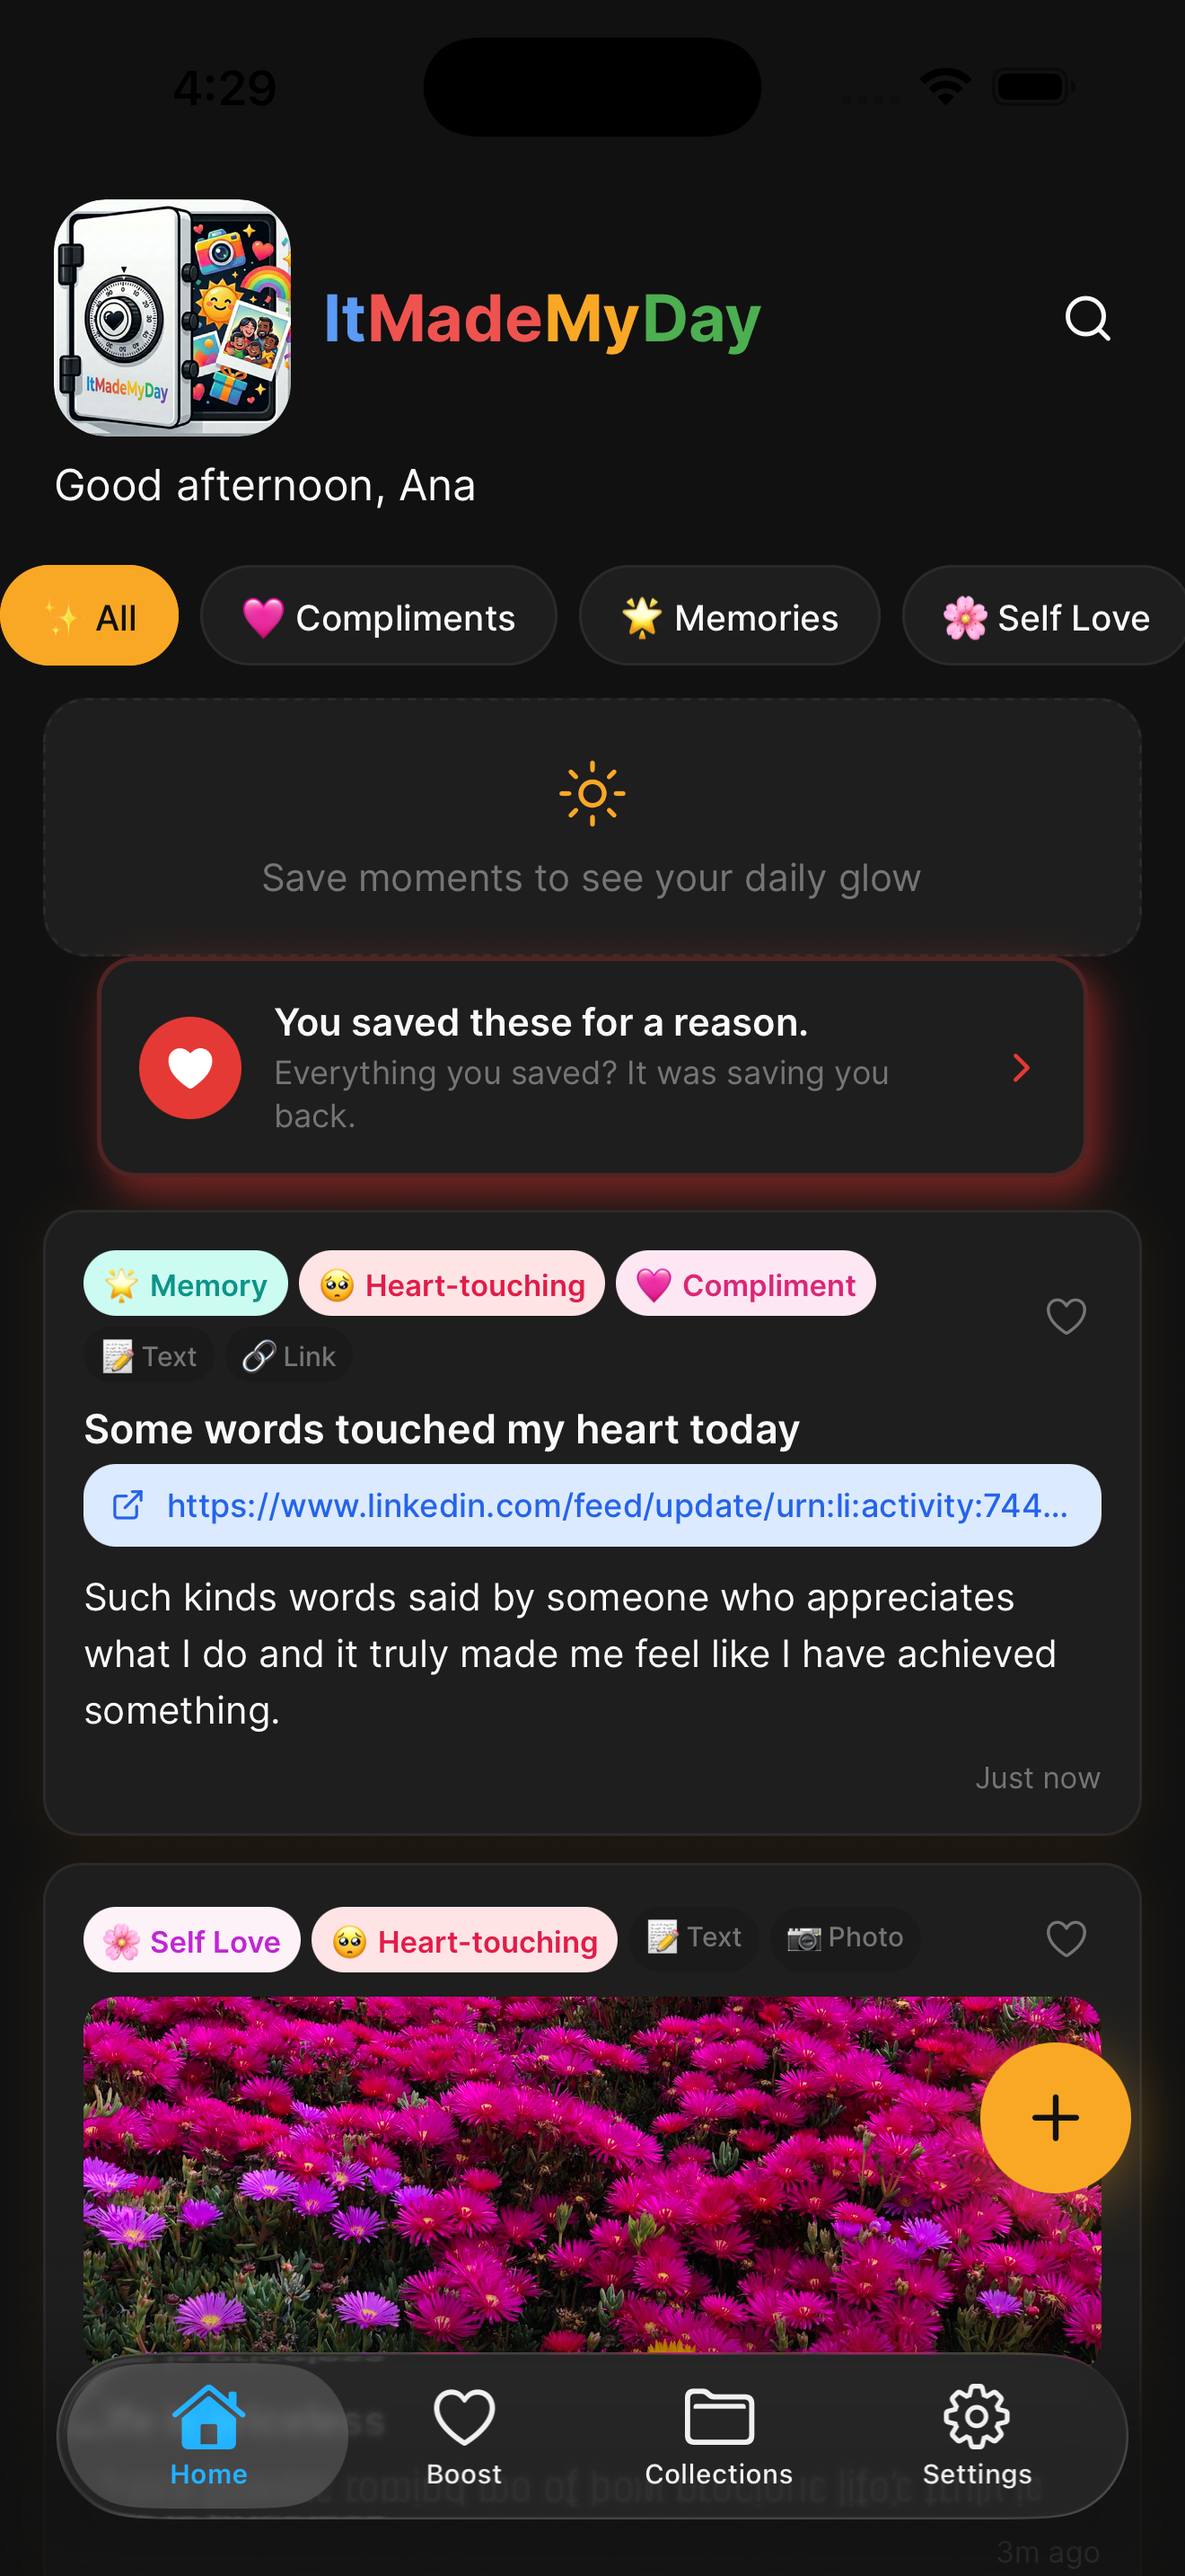
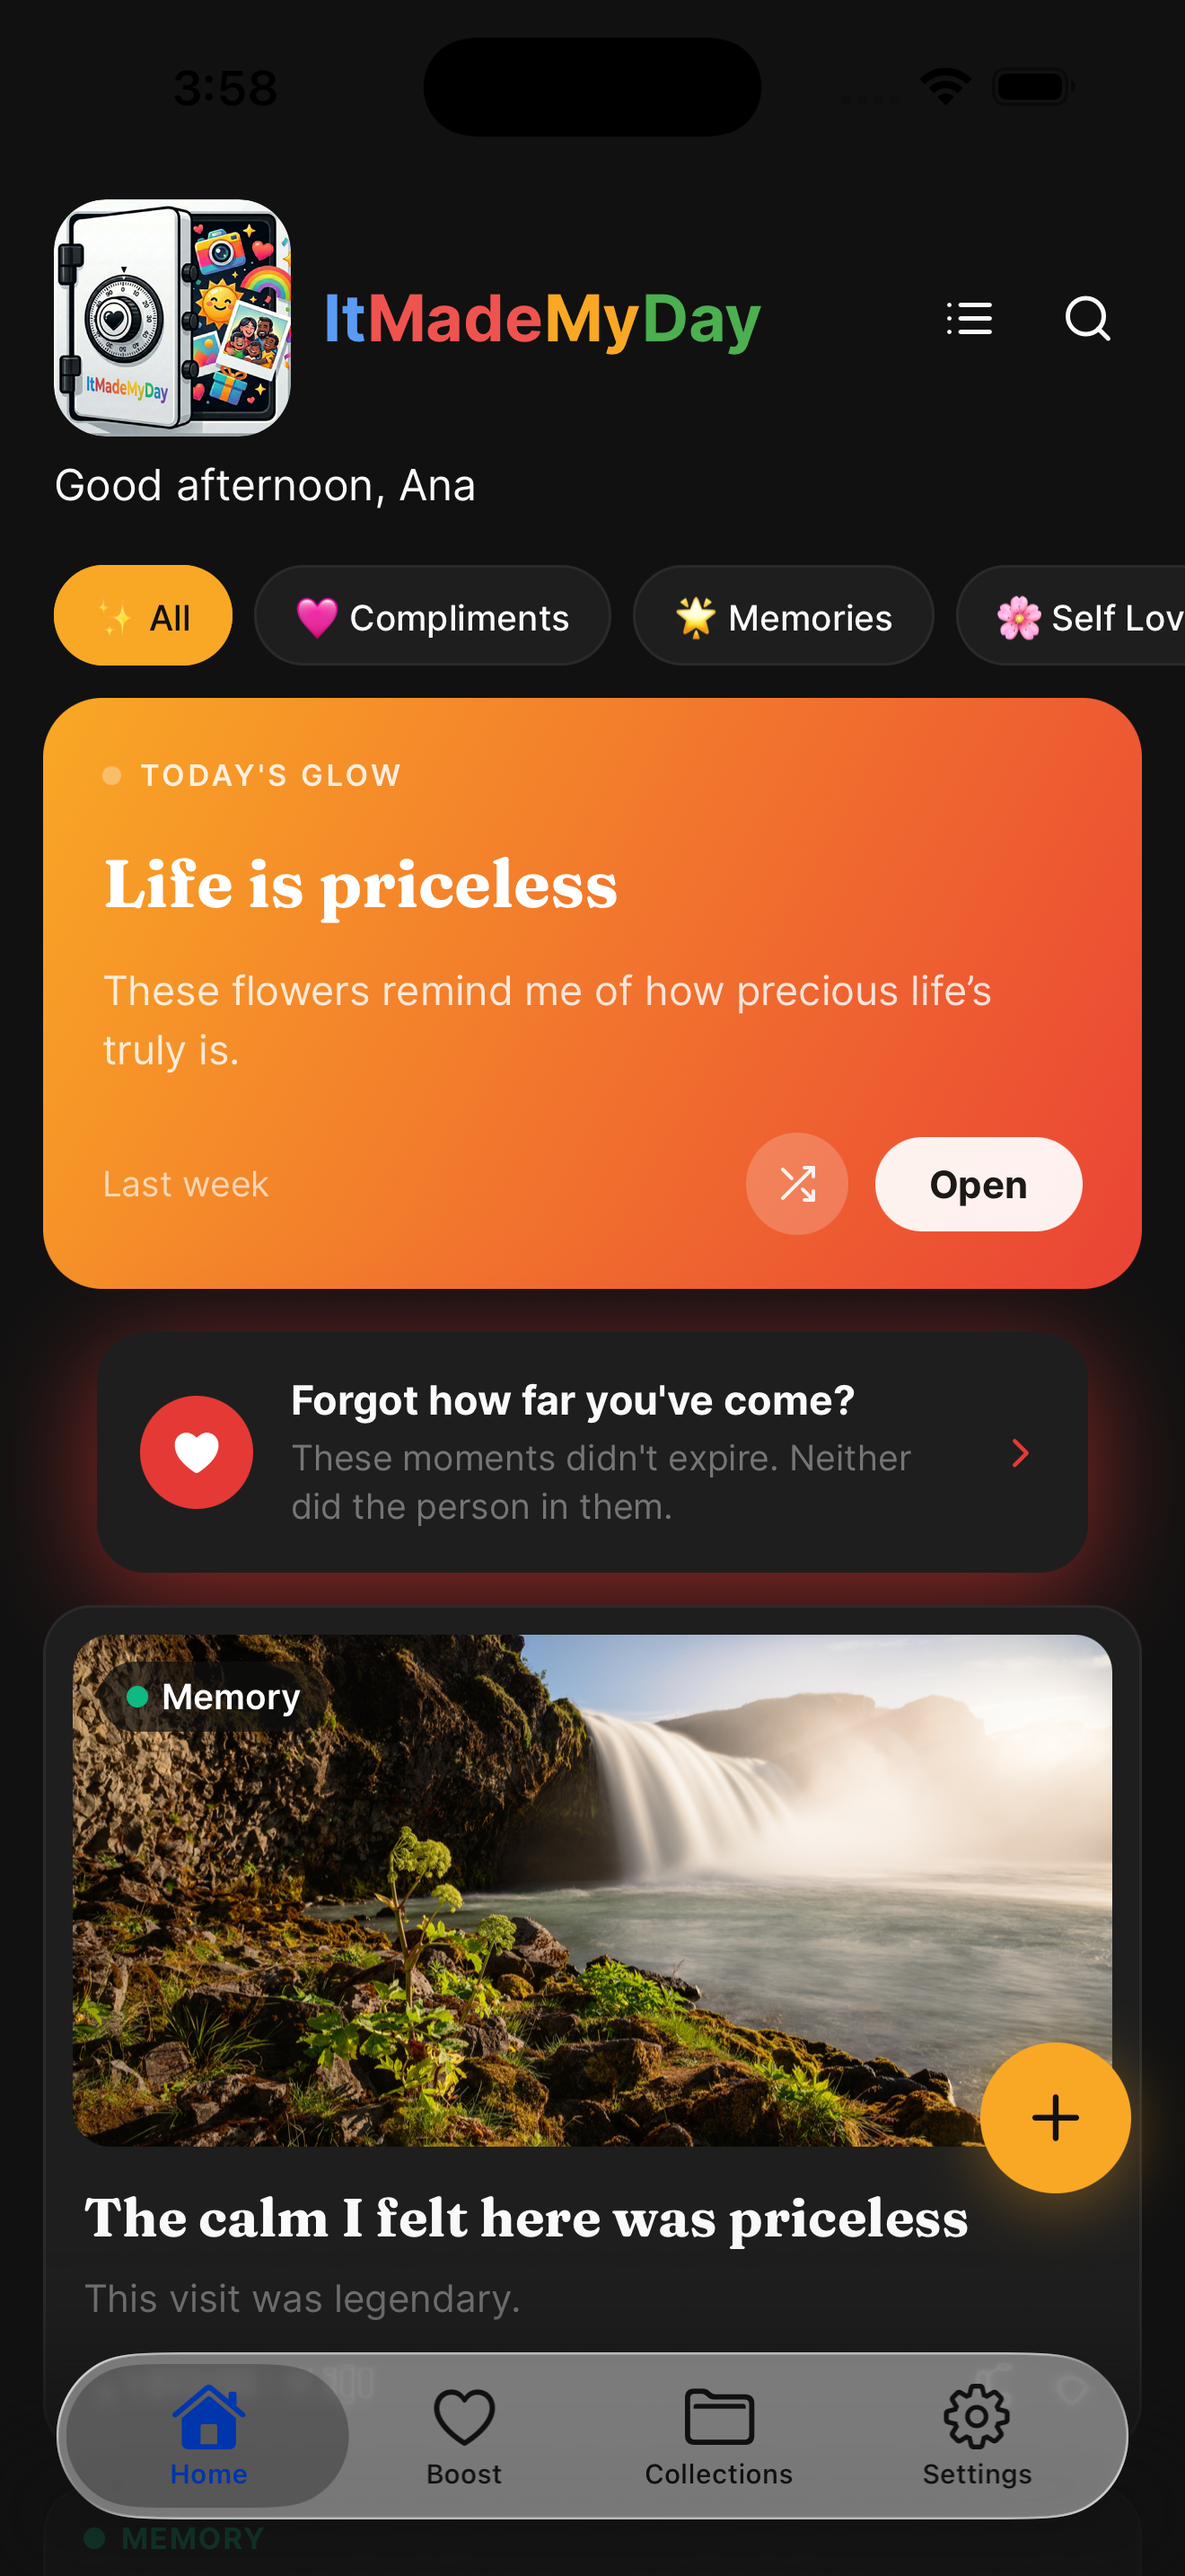
ItMadeMyDay: refresh screenshots; hero left phone Boost tab; trim gallery dupes
- Re-export/optimize marketing screenshot PNGs
- Hero left mockup: Boost moods list (was home content)
- Remove duplicate New Collection tiles from screenshot marquees

Made-with: Cursor

diff --git a/output/it-made-my-day/site/index.html b/output/it-made-my-day/site/index.html
@@ -2690,13 +2690,13 @@
         <div class="hero-blob hero-blob-1" aria-hidden="true"></div>
         <div class="hero-blob hero-blob-2" aria-hidden="true"></div>
         <div class="hero-blob hero-blob-3" aria-hidden="true"></div>
-        <!-- Left phone: Home with real content -->
+        <!-- Left phone: Boost moods list -->
         <div class="phone-frame phone-frame-left">
           <div class="phone-screen">
             <div class="phone-island"></div>
             <img
-              src="images/screenshot-home-content-light.png"
-              alt="ItMadeMyDay Home screen showing saved moments"
+              src="images/screenshot-boost-light.png"
+              alt="ItMadeMyDay Boost tab showing mood selection list"
               width="190"
               height="411"
               loading="eager"
@@ -3093,12 +3093,6 @@
           </div>
           <div class="screenshot-item">
             <div class="screenshot-phone"><div class="phone-screen"><div class="phone-island"></div>
-              <img src="images/screenshot-new-collection-dark.png" alt="Create new collection" width="160" height="346" loading="lazy" />
-            </div></div>
-            <span class="screenshot-label">New Collection</span>
-          </div>
-          <div class="screenshot-item">
-            <div class="screenshot-phone"><div class="phone-screen"><div class="phone-island"></div>
               <img src="images/screenshot-collection-kindwords-light.png" alt="Kind Words collection" width="160" height="346" loading="lazy" />
             </div></div>
             <span class="screenshot-label">Kind Words</span>
@@ -3199,12 +3193,6 @@
               <img src="images/screenshot-boost-dark.png" alt="" width="160" height="346" loading="lazy" />
             </div></div>
             <span class="screenshot-label">Boost · Dark</span>
-          </div>
-          <div class="screenshot-item" aria-hidden="true">
-            <div class="screenshot-phone"><div class="phone-screen"><div class="phone-island"></div>
-              <img src="images/screenshot-new-collection-dark.png" alt="" width="160" height="346" loading="lazy" />
-            </div></div>
-            <span class="screenshot-label">New Collection</span>
           </div>
           <div class="screenshot-item" aria-hidden="true">
             <div class="screenshot-phone"><div class="phone-screen"><div class="phone-island"></div>
